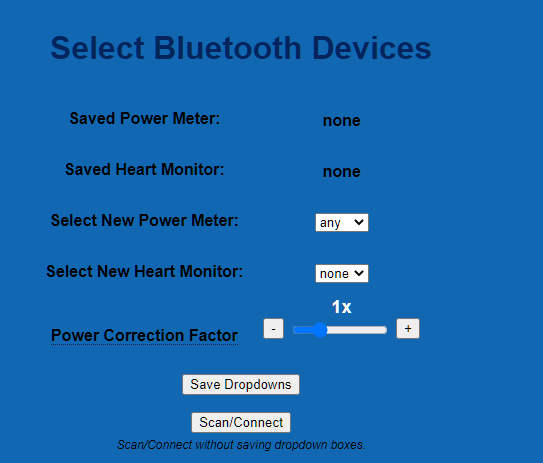
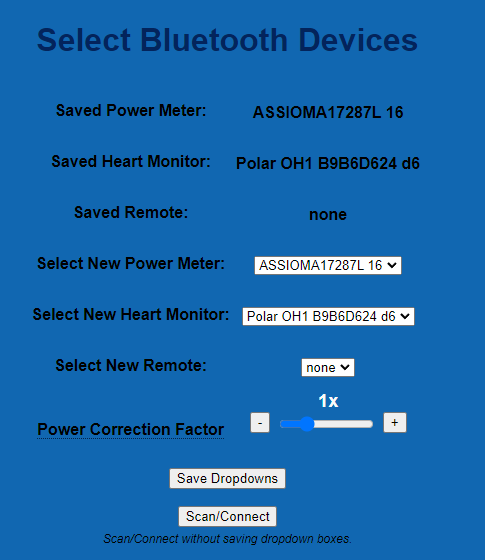
Proofread
Grammar, spelling, informational updates

diff --git a/user-guide/settings.md b/user-guide/settings.md
@@ -4,22 +4,22 @@ parent: User Guide
 layout: page
 nav_order: 5
 ---
-# What do all these settings mean?
+# What Do All These Settings Mean?
 There are a number of settings available to customize the behavior of your SmartSpin2k to optimize the feel and realism with your Zwift ride. These settings will vary from bike to bike. 
 
-All settings, aside from Automatic Updates are saved when the Submit button is clicked, and occur immediately.  You can adjust these settings mid ride from your browser while you are getting it dialed in.
+All settings, aside from Automatic Updates, are saved when the Submit button is clicked and will occur immediately.  You can adjust these settings mid ride from your browser while you're getting it dialed in.
 
 ![screenshot of settings](../images/settings_page.png)
 
 | Setting Name (App)     | Setting Name (Web)          | Description                                                                                                                                                                                                                                                                                                                                                                                                                                                                                                                                                                                                                                                                                                                 |
 | ---------------------- | --------------------------- | --------------------------------------------------------------------------------------------------------------------------------------------------------------------------------------------------------------------------------------------------------------------------------------------------------------------------------------------------------------------------------------------------------------------------------------------------------------------------------------------------------------------------------------------------------------------------------------------------------------------------------------------------------------------------------------------------------------------------- |
-| Shift Step             | Sim Mode Shift Amount       | This setting controls how much each click of the shifter turns the dial. The ideal setting is different for each bike and person. Try aiming for a +/- 30 watt change when you click the shifter. Higher values will turn the knob further.|
-| Incline Multiplier     | Sim Mode Incline Multiplier | This setting affects how much you will feel the impact of hills in sim mode rides. The value is adjustable from 1 to 10. Pick the setting which feels most realistic to you. Higher values will make hills feel steeper while lower values will flatten out the hills. Try starting at 5 and going up and down from there. Please note that Zwift has a default hill difficulty of 50%. This cuts the impact of the Sim Mode Incline Multiplier in half. For realistic results, you may need to adjust this setting in the app. [Read more about Zwift Difficulty here]([https://zwiftinsider.com/using-the-trainer-difficulty-setting-in-zwift/](https://zwiftinsider.com/using-the-trainer-difficulty-setting-in-zwift/)) |
-| Erg Sensitivity        | ERG Mode Sensitivity        | adjusts the aggressiveness of the erg. This can be adjusted from 1 to 20. Too low will cause the ERG to be slow at reaching the target wattage. Too high will cause it to overshoot too far and miss the target in each direction before it settles. 5 is a good starting value. A little bit of overshoot is okay if it settles on the target output quickly. |
-| Min Brake Watts        | Min Bike Brake Watts        | This setting is the lower limit of watts your bike can absorb. This is set to ensure that SmartSpin2k does not try to turn the knob below it's minimum limit. Too low will crash the knob at the lowest setting your bike can achieve and cause problems later during your ride. You can determine this value by pedaling at 90 RPM with the resistance somewhere above absolute zero on the knob. 1-2 turns from the lowest resistance is usually a good starting point. On the Schwinn IC4, it's suggested to have the resistance at 10 (out of 100) for this test. Take note of the watts at this resistance and cadence. This is your minimum brake watts value. |
-| Max Brake Watts        | Max Bike Brake Watts        | This setting is the upper limit of watts your bike can absorb. This is set to ensure that SmartSpin2k does not try to turn the knob past it's maximum limit. This value will vary per bike, and some riders will not be able to achieve the maximum value their bike can support. 700-800 watts is a good setting to start with. You can determine this value by pedaling at 90 RPM with the resistance as high as you can comfortably hold it and take note of the watts. Depending on how close you are to the bike's maximum resistance, you can set this value higher or close to this number. |
-| Stepper Powr           | Stepper Power               | Adjust this setting if you are experiencing overheat issues or if you need additional torque for a felt resistance bike. Do not exceed your power supply's rated limits. |
-| Stealthchop            | Stepper Stealthchop         | This silences the stepper motor. Leave it on unless it is causing issues. Turning it off may provide some additional torque if you have a felt resistance bike. |
+| Shift Step             | SIM Mode Shift Amount       | This setting controls how much each click of the shifter turns the dial. The ideal setting is different for each bike and person. Try aiming for a +/- 30 watt change when you click the shifter. Higher values will turn the knob further.|
+| Incline Multiplier     | SIM Mode Incline Multiplier | This setting affects how much you will feel the impact of hills in SIM mode rides. The value is adjustable from 1 to 10. Pick the setting which feels most realistic to you. Higher values will make hills feel steeper, while lower values will flatten out the hills. Try starting at 5 and going up and down from there. Please note that Zwift has a default hill difficulty of 50%. This cuts the impact of the SIM Mode Incline Multiplier in half. For realistic results, you may need to adjust this setting in the app. [Read more about Zwift Difficulty here]([https://zwiftinsider.com/using-the-trainer-difficulty-setting-in-zwift/](https://zwiftinsider.com/using-the-trainer-difficulty-setting-in-zwift/)) |
+| ERG Sensitivity        | ERG Mode Sensitivity        | This setting adjusts the aggressiveness of the ERG. This can be adjusted from 1 to 20. Too low will cause the ERG to be slow at reaching the target wattage. Too high will cause it to overshoot too far and miss the target in each direction before it settles. A good starting value is 5. A little bit of overshoot is okay if it settles on the target output quickly. |
+| Min Brake Watts        | Min Bike Brake Watts        | This setting is the lower limit of watts your bike can absorb. This is set to ensure that the SmartSpin2k does not try to turn the knob below its minimum limit. Too low will crash the knob at the lowest setting your bike can achieve and will cause problems later during your ride. You can determine this value by pedaling at 90 rpm with the resistance somewhere above absolute zero on the knob. A good starting point is usually 1-2 turns from the lowest resistance. On the Schwinn IC4, it's suggested to have the resistance at 10 (out of 100) for this test. Take note of the watts at this resistance and cadence. This is your minimum brake watts value. |
+| Max Brake Watts        | Max Bike Brake Watts        | This setting is the upper limit of watts your bike can absorb. This is set to ensure that the SmartSpin2k does not try to turn the knob past its maximum limit. This value will vary per bike, and some riders will not be able to achieve the maximum value their bike can support. A good setting to start with is 700-800 watts. You can determine this value by pedaling at 90 rpm with the resistance as high as you can comfortably hold it and take note of the watts. Depending on how close you are to the bike's maximum resistance, you can set this value higher, or close to, this number. |
+| Stepper Power           | Stepper Power               | Adjust this setting if you are experiencing overheat issues or if you need additional torque for a felt-resistance bike. Do not exceed your power supply's rated limits. |
+| StealthChop            | Stepper StealthChop         | This silences the stepper motor. Leave it on unless it's causing issues. Turning it off may provide some additional torque if you have a felt-resistance bike. |
 | N/A                    | Stepper Motor Direction     | This setting controls the orientation of the motor and the direction it turns. Depending on how your motor is wired, this may need to be toggled. |
 | Swap Shifter Direction | Shifter Direction           | This setting controls which shifter button is up and which is down. Toggle this if you need to invert the direction of the shifters. |
-| N/A                    | Enable UDP Logging          | Leave this off unless you need access to logs from SS2K on your computer. Instructions for accessing the UDP logs can be found [here]([https://github.com/doudar/SmartSpin2k/wiki/Viewing-logs-via-UDP](https://github.com/doudar/SmartSpin2k/wiki/Viewing-logs-via-UDP))  |
+| N/A                    | Enable UDP Logging          | Leave this off unless you need access to logs from SS2k on your computer. Instructions for accessing the UDP logs can be found [here.]([https://github.com/doudar/SmartSpin2k/wiki/Viewing-logs-via-UDP](https://github.com/doudar/SmartSpin2k/wiki/Viewing-logs-via-UDP))  |

diff --git a/user-guide/initial-setup.md b/user-guide/initial-setup.md
@@ -1,3 +1,4 @@
+
 ---
 title: Initial Setup
 parent: User Guide
@@ -18,67 +19,67 @@ If you use a BLE bike (or power meter) and BLE HR monitor, and there are no othe
 
 1. Turn on the SmartSpin2k. 
 2. Turn on your HR monitor and power meter.
-3. Open your preferred cycling app (Zwift, Fulgaz, Trainer Road, etc...)
+3. Open your preferred cycling app (Zwift, Fulgaz, TrainerRoad, etc.)
 4. Pair the SmartSpin2k in those apps.
 
-And then ride...Seriously, that's it. 
+And then ride! Seriously, that's it. 
 
 If you'd like to make changes to shift steps or other advanced settings, then you can continue with the steps below. 
 
 ## Accessing Advanced Settings
 ### Using the Mobile App
 
-### Configure Wifi
-* On initial boot the SmartSpin2k will create its own Wifi network Access Point with the SSID of “SmartSpin2k”.  If asked for a password, use "password" without the quotes
+### Configure Wi-Fi
+* On initial boot, the SmartSpin2k will create its own Wi-Fi network access point with the SSID of “SmartSpin2k”.  If asked for a password, use "password" without the quotes.
 
 ![](../images/wiki-ssid.jpg)
 
-* The configuration page will automatically load on mobile. If you are not taken to the page or if you are using a computer, the configuration page can be found at <http://SmartSpin2k.local/>
+* The configuration page will automatically load on mobile. If you are not taken to the page or if you are using a computer, the configuration page can be found at <http://SmartSpin2k.local/>.
 
 ![](../images/wifi-setup.png)
 
-* Enter your local WiFi network information with SSID and password. Please note:  The SmartSpin2k requires a 2.4ghz wifi connection.  Please ensure you use the correct wifi network if you have separate SSID's for 5ghz and 2.4ghz..
+* Enter your local Wi-Fi network information with SSID and password. Please note:  The SmartSpin2k requires a 2.4ghz Wi-Fi connection.  Please ensure you use the correct Wi-Fi network if you have separate SSIDs for 5ghz and 2.4ghz.
 * Click Submit and wait for the page to refresh.
 * Click Reboot.
-* SmartSpin2k will automatically update if the Wifi Network you paired the device to is connected to the internet.  The blue LED will flash quickly while this process occurs.  This may take up to 3 minutes.  
-* Once the blue LED is flashing slowly, make sure your phone or computer are connected to your home wifi network.
+* SmartSpin2k will automatically update if the Wi-Fi network you paired the device to is connected to the internet.  The blue LED will flash quickly while this process occurs.  This may take up to 3 minutes.  
+* Once the blue LED is flashing slowly, make sure your phone or computer are connected to your home Wi-Fi network.
 * Navigate to <http://SmartSpin2k.local/> to confirm that you can access the configuration pages of SmartSpin2k.  You should see a page like this:
 
 ![](../images/configuration-page.png)
 
 ### Configure Motor Direction
-You may need to flip your motor's orientation depending on how it is wired.  This can be done directly in the SmartSpin2k user interface.  
+You may need to flip your motor's orientation depending on how it's wired.  This can be done directly in the SmartSpin2k user interface.  
 
 * Mount your SmartSpin2k on your bike alternatively, place it on a table with the knob cup facing up towards the ceiling.
 * Navigate to <http://SmartSpin2k.local/> if you are not there already.
-* Click on the Web Shifter link.  **Do not use the wired shifter for this step**
+* Click on the Web Shifter link.  **Do not use the wired shifter for this step**.
 * Click the "Up" or "Down" button and observe the direction the knob turns.  
 
 ![](../images/web-shifter.png)
 
-* If the knob turned in the direction you expect, great!  You are good to go to the next section.  If not, proceed to the next step:
-* Click back on your browser or navigate to <http://SmartSpin2k.local/>
-* Select Settings
+* If the knob turned in the direction you expected it to, great!  You are good to go to the next section.  If not, proceed to the next step:
+* Click back on your browser or navigate to <http://SmartSpin2k.local/>.
+* Select Settings.
 * Scroll down to Stepper Motor Direction and toggle the button.
 
 ![stepper direction](../images/stepper-direction.png)
 
-* Click Save Settings
+* Click Save Settings.
 * Repeat these steps to test shifting on the web shifter again.  The motor should now be turning in the correct direction.
 
 ### Configure Shifter Direction
 You might need to adjust the shifter direction.  These steps will help you test and change the direction if necessary:
 
 * Connect the shifter to your SmartSpin2k if is not already connected.
-* Press the up or down button on your shifter.  Observe the direction the knob turns
-* If the knob turned in the direction you expect, you're ready to configure bluetooth! If not, proceed to the next step:
-* Navigate to <http://SmartSpin2k.local/> 
-* Click on Settings
-* Scroll down to Shifter Direction and toggle the button
+* Press the up or down button on your shifter.  Observe the direction the knob turns.
+* If the knob turned in the direction you expected it to, you're ready to configure Bluetooth. If not, proceed to the next step:
+* Navigate to <http://SmartSpin2k.local/>. 
+* Click Settings.
+* Scroll down to Shifter Direction and toggle the button.
 
 ![shifter direction](../images/shifter-direction.png)
 
-* Click Save Settings
+* Click Save Settings.
 * Test your shifter again and confirm the motor turns in the correct direction.
 
-You are now ready to pair the SmartSpin2k to bluetooth.  [Follow along here for instructions](https://github.com/doudar/SmartSpin2k/wiki/Pairing-Bluetooth-Sensors)
+You are now ready to pair the SmartSpin2k to Bluetooth.  [Follow along here for instructions.](https://github.com/doudar/SmartSpin2k/wiki/Pairing-Bluetooth-Sensors)

diff --git a/user-guide/bluetooth.md b/user-guide/bluetooth.md
@@ -14,32 +14,34 @@ Table of contents
 {:toc}
 ---
 
-## How do I connect my sensors to the SS2K?
-OK, your SmartSpin2k is connected and the blue LED is slowly flashing, ready for you to provide some Bluetooth connections and you’re ready to ride! SmartSpin2k will act as a Bluetooth multiplexer and serve all of your connections.  This means it operates as a single point for your sensors to connect to.  You can then pair your device to the SmartSpin2k as a single sensor.  This is helpful for devices like the AppleTV which are limited to just two connections at a time.
+## How Do I Connect My Sensors to the SS2k?
+OK, your SmartSpin2k is connected, and the blue LED is slowly flashing, ready for you to provide some Bluetooth connections, and you’re ready to ride! SmartSpin2k will act as a Bluetooth multiplexer and serve all of your connections.  This means it operates as a single point for your sensors to connect to.  You can then pair your device to the SmartSpin2k as a single sensor.  This is helpful for devices like the Apple TV, which are limited to just two connections at a time.
 
 ## Pairing Bluetooth Sensors Automatically
-* Ensure all 3rd party apps that may be connected to your bike or power meter are turned off.
-* Turn on your bike or power meter
-* Turn on the SmartSpin2k.  It will automatically connect to your bike or power meter
-* Launch your training app and pair it to SmartSpin2k ([Zwift example here](https://github.com/doudar/SmartSpin2k/wiki/Riding-Zwift-with-SmartSpin2k))
-* Start riding
+* Ensure all 3rd-party apps that may be connected to your bike or power meter are turned off.
+* Turn on your bike or power meter.
+* Turn on the SmartSpin2k.  It will automatically connect to your bike or power meter.
+* Launch your training app and pair it to SmartSpin2k ([Zwift example here](https://github.com/doudar/SmartSpin2k/wiki/Riding-Zwift-with-SmartSpin2k)).
+* Start riding!
 
 ## Pairing Bluetooth Sensors Manually
-You will want to manually select your power meter If you own a power meter and use it on a bBuetooth enabled bike like the Schwinn IC4. This is also useful if you have multiple power meters or bikes nearby.
+You will want to manually select your power meter if you own a power meter and use it on a Bluetooth-enabled bike like the Schwinn IC4. This is also useful if you have multiple power meters or bikes nearby.
 
-* From http://smartspin2k.local, Click on Bluetooth Scanner
-* ![Bluetooth Settings](../images/bluetooth_settings.png)
-* Make sure you are wearing your HR sensor and it is not paired via Bluetooth to any other devices like a Garmin watch or iPad/iPhone
-* Have your Bluetooth power pedals charged or with batteries and ready to pair. Also make sure they are not connected to any other devices like the previous step.
-* Click on the “Scan/Reconnect Devices” button.
-* Select the HR monitor in the Heart Monitor drop down box.
-* Select the Power Meter in the Power Meter drop down box.  Users with a dedicated power meter and a bike that reports power data must select the appropriate power meter here.  Leaving this setting at "Any" may cause SmartSpin2k to receive power data from both sources and cause unintended fluctuations in reported data.
-* Click on the “Save dropdowns for the next reboot” button.
+* From http://smartspin2k.local, click on Bluetooth Scanner.
+<br/>
+![Bluetooth Settings](../images/bluetooth_settings.png)
+<br/>
+* Make sure you're wearing your HR sensor and that it's not paired via Bluetooth to any other devices like a Garmin watch or iPad/iPhone.
+* Have your Bluetooth power pedals charged or with batteries and ready to pair. Also, make sure they are not connected to any other devices like the previous step.
+* Click Scan/Connect.
+* Select the HR monitor in the Select New Heart Monitor drop-down box.
+* Select the power meter in the Select New Power Meter drop-down box.  Users with a dedicated power meter and a bike that reports power data must select the appropriate power meter here.  Leaving this setting at "any" may cause SmartSpin2k to receive power data from both sources and cause unintended fluctuations in reported data.
+* Click Save Dropdowns.
+* Leave Select New Remote as "none".
 
-## Reconnect Bluetooth during your ride
-In case you experience a Bluetooth drop, you can force SmartSpin2k to rescan Bluetooth with the shifter.
+## Reconnect Bluetooth During Your Ride
+In case you experience a Bluetooth drop, you can force SmartSpin2k to rescan Bluetooth with the shifter at any time during your ride.
 
-* Press and hold both buttons on the shifter for 3 seconds
-* Release
-* SmartSpin2k should rescan and reconnect your bike/sensors
-* Now that your sensors are paired and you know it works, It is possible, as shown in the hint at the bottom of the bluetooth scanner page page, to quickly scan and reconnect Bluetooth devices.  Do this by holding both shifter buttons simultaneously for 3 seconds after the SmartSpin2k has powered up. 
+* Press and hold both buttons on the shifter for 3 seconds.
+* Release.
+* SmartSpin2k should rescan and reconnect your bike/sensors.

diff --git a/about.md b/about.md
@@ -5,12 +5,12 @@ nav_order: 2
 ---
 # About SmartSpin2k
 ## Background
-I travel for a living and some hotels I stay at have spin bikes. I started carrying my own power meter pedals for the spin bikes so I could ride Zwift, but the experience just isn't the same without automatic resistance on the hills. Then one day I was looking down at that simple to turn knob and I had a thought - With the power meter pedals attached, almost everything is already in place on this $300 spin bike to turn it into the equivalent of a $3,000 computer controlled smart bike! And so here we are....
+As a person whose job requires a substantial amount of overnight traveling, I find myself using hotel spin bikes quite often during my work trips. Initially, I started carrying my own power meter pedals for use on the hotel spin bikes so I could ride Zwift. This was definitely a step up, but it still wasn't giving me the full experience that I wanted....the experience of automatic resistance on the hills. Was this a luxury I just had to live without on the road? One day as I was hitting it hard on a hotel spin bike, I glanced down at the simple-to-turn knob, and my wheels of imagination started turning. With my power meter pedals attached, almost everything was already in place on this $300 spin bike...except for one important component...a device to control the resistance knob! I love a good challenge, and I love creating and inventing. And so naturally, this was the beginning of a whole lot of brainstorming for me, and eventually the start of this genius little creation that became known as SmartSpin2k. So to answer my previous question, was automatic resistance a luxury I had to live without on the road? Absolutely not anymore! And even more exciting, I had just found a way to turn a $300 spin bike into the equivalent of a $3,000 computer-controlled smart bike!
 
-Thanks to some user requests, HR based power using an algorithm based on this page from Brian Mac is currently being tested. While no substitute for a true power meter (pedals or crank based) this provides very general average power information and is usable for steady state efforts.
+Thanks to some user requests, HR-based power using an algorithm based on this page from Brian Mac is currently being tested. While no substitute for a true power meter (pedals or crank based), it provides very general average power information and is usable for steady state efforts.
 
 ## Introduction to the SmartSpin2k
-SmartSpin2k is an open source project that uses an ESP32 and stepper motor to let fitness apps like Zwift automatically control spin bikes that have a resistance knob. The SmartSpin2k also has shifter buttons that allow the user to simulate shifting gears on the stationary bike.
+SmartSpin2k is an open-source project that uses an ESP32 and stepper motor to let fitness apps like Zwift automatically control spin bikes that have a resistance knob. The SmartSpin2k also has shifter buttons that allow the user to simulate shifting gears on the stationary bike.
 
 <details markdown="block"><summary> Videos of SmartSpin2k</summary>
 > ![](https://www.youtube.com/watch?v=O8ZMRmwN-dY)
@@ -19,9 +19,9 @@ SmartSpin2k is an open source project that uses an ESP32 and stepper motor to le
 
 ## Summary of Function
 
-Your power meter or spin bike sends cycling power and cadence to Zwift (or any other cycling app). SmartSpin2k then connects to the APP as a controllable trainer via bluetooth. The APP is able to request SmartSpin2k to increase or decrease the amount of resistance on your bike and SS2K will then change the resistance accordingly. If you choose to pair your power source directly to SmartSpin2k, ERG mode is also available which lets an app directly control your watt output regardless of your cadence. In addition to adjusting the knob, SmartSpin2k also has shifter buttons to simulate virtual shifting. 
+Your power meter or spin bike sends cycling power and cadence to Zwift (or any other cycling app). SmartSpin2k then connects to the app as a controllable trainer via bluetooth. The app is able to request SmartSpin2k to increase or decrease the amount of resistance on your bike and SS2k will then change the resistance accordingly. If you choose to pair your power source directly to SmartSpin2k, ERG mode is also available, which lets an app directly control your watt output regardless of your cadence. In addition to adjusting the knob, SmartSpin2k also has shifter buttons to simulate virtual shifting. 
 
-Configuration is accomplished via a web interface hosted by the SmartSpin2k. If you connect the unit to WiFi with an internet connection, it will also perform automatic software updates whenever they become available! 
+Configuration is accomplished via a web interface hosted by the SmartSpin2k. If you connect the unit to Wi-Fi with an internet connection, it will also perform automatic software updates whenever they become available! 
 
 ```mermaid!
 %%{init: {"flowchart": {"htmlLabels": false}} }%%

diff --git a/user-guide/pairing-apps.md b/user-guide/pairing-apps.md
@@ -5,17 +5,21 @@ layout: page
 nav_order: 7
 ---
 
-# How to pair SmartSpin2k to your training app
+# How to Pair SmartSpin2k to Your Training App
 
 Once you have completed your Bluetooth sensor pairing to the SmartSpin2k, you are ready to connect to your training app. As mentioned previously, your best performance will likely result in pairing all sensors to the SmartSpin2k, followed by pairing the SmartSpin2k to your training app.  
 
 {: .highlight }
-While the following instructions are for Zwift, most training apps behave the same way.  For a full list of compatible apps, check out the [Compatibility](compatibility) page 
+While the following instructions are for Zwift, most training apps behave the same way.  For a full list of compatible apps, check out the [Compatibility](compatibility) page. 
 
-1. Login to Zwift, make sure your device has Bluetooth switched on, and click on “Smart Trainer”.
-1. On this page, click on each sensor type (HR, Power, Cadence, and Smart Trainer), and Select SmartSpin2k as the source. Each item should have a blue background and be indicating the sensor value. 
+1. Log into Zwift and make sure your device has Bluetooth switched on.
+1. Click Power Source and select SmartSpin2k.
+1. Wait 5 seconds.
+1. Click Resistance and select SmartSpin2k.
+1. Click Cadence and select SmartSpin2k.
+1. If you have a heart rate monitor paired to SmartSpin2k, click Heart Rate and select SmartSpin2k.
 
 {: .caution }
 If there are any issues, usually a “scan and reconnect” by holding the shifter buttons simultaneously will resolve any problems.
 
-![](https://raw.githubusercontent.com/doudar/SmartSpin2k/master/Pictures/zwift_connections.jpg)
+![paired devices](../images/paired_devices.png)

diff --git a/index.md b/index.md
@@ -7,6 +7,6 @@ nav_order: 1
 
 SmartSpin2k is an open-source device that allows you to turn any spin bike into a smart trainer. With SmartSpin2k, you can connect your spin bike to Zwift, TrainerRoad, or other popular training apps. This allows you to control your exercise bike's resistance automatically, track your performance, and compete with other riders online.
 
-All of the current Smart Trainer modes are supported including ERG mode!
+All of the current smart trainer modes are supported, including ERG mode!
 
-Most spin bikes are compatible, but a select few aren't. For connectivity, SmartSpin2k requires some type of power and cadence information from your bike. Most of the time that's from wireless data, except with the regular Peloton bike (not the bike+), we use a wired connection. In general, if your bike connects to Zwift, Rouvy or another training app, you'll be able to use it directly. If not, you'll need a power meter such as the Tempo, Assomia uno/duo or Garmin pedals.
+Most spin bikes are compatible. For connectivity, SmartSpin2k requires some type of power and cadence information from your bike. Most of the time that's from wireless data, except with the regular Peloton bike (not the bike+), we use a wired connection. In general, if your bike connects to Zwift, Rouvy or another training app, you'll be able to use it directly. If not, you'll need a power meter such as the Tempo, Assomia uno/duo or Garmin pedals.
